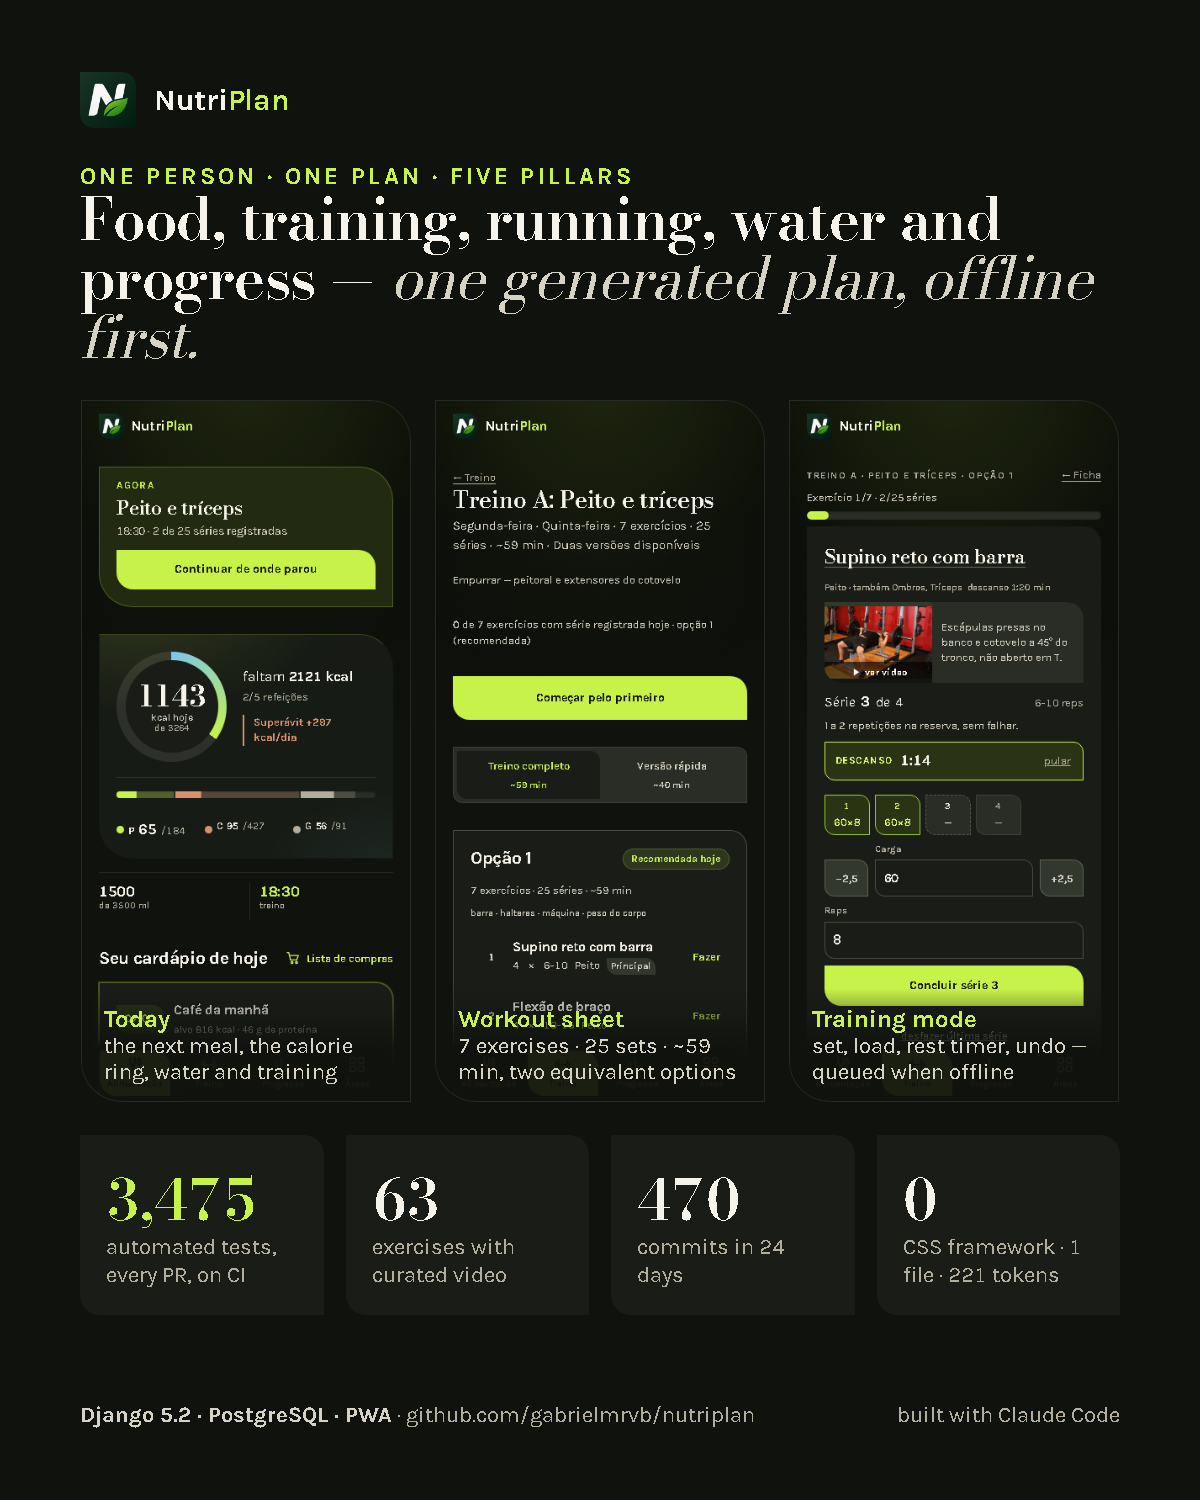
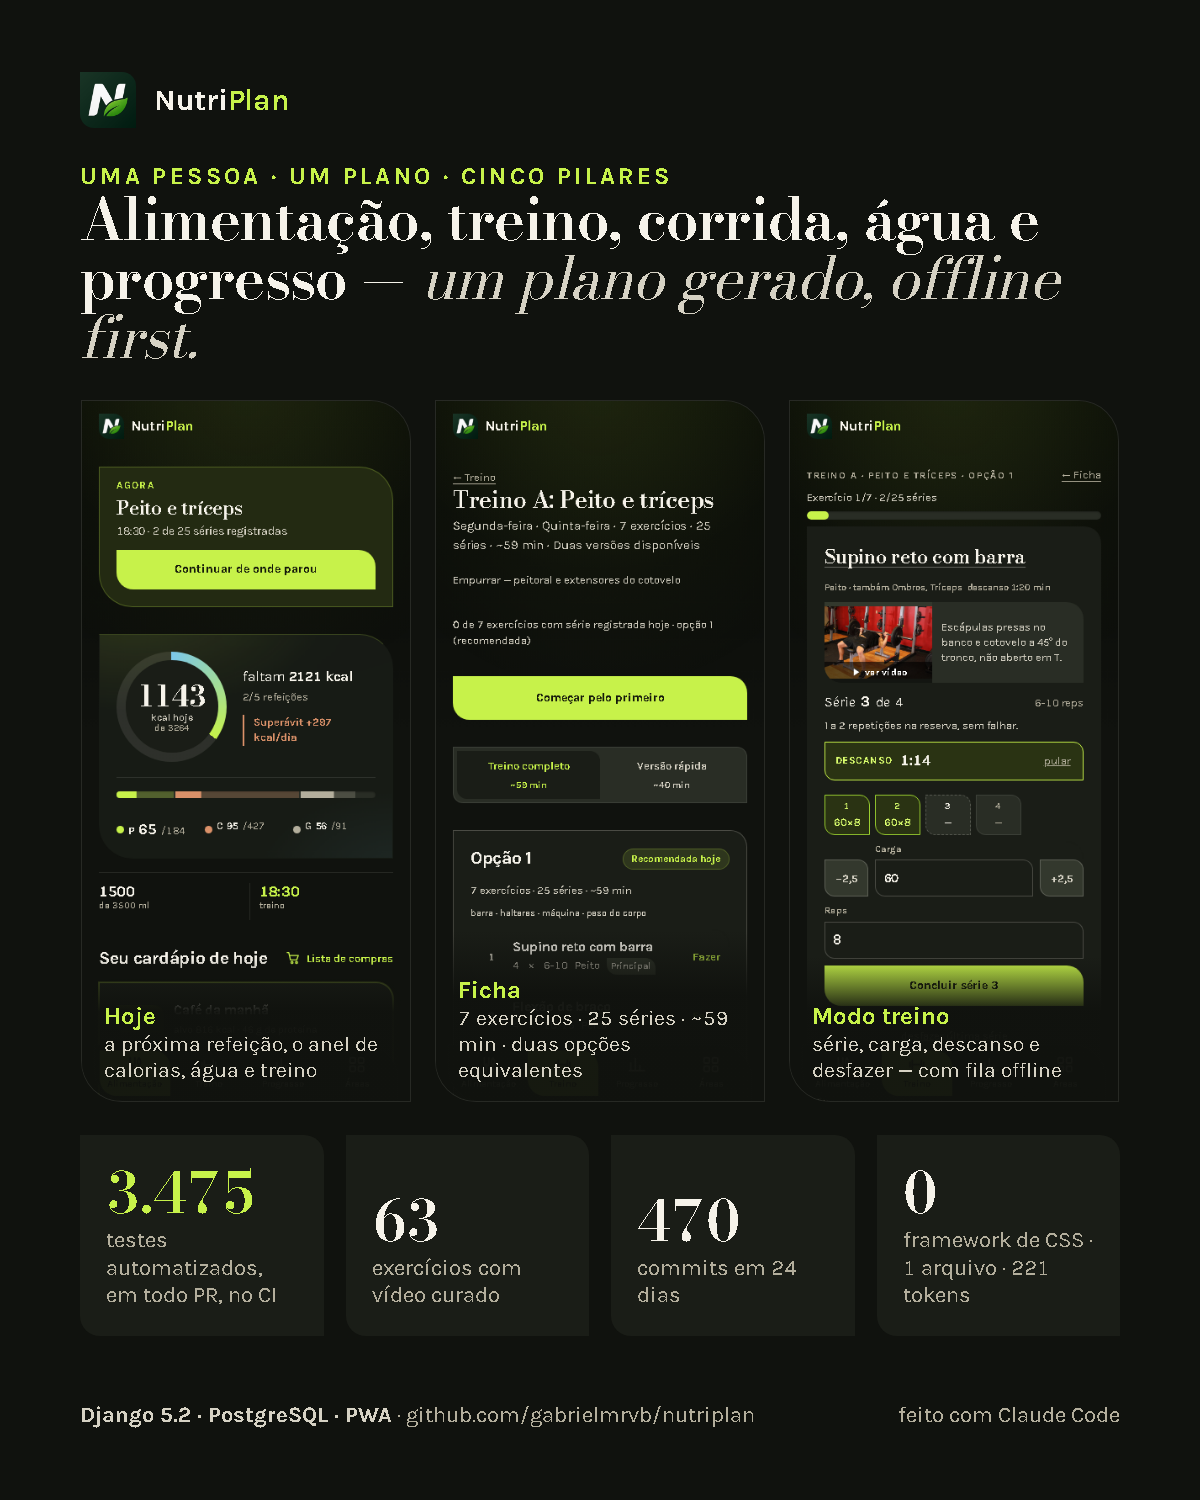
LinkedIn: os cinco posts e as cinco imagens em português (decisão do dono, 17/09)
A primeira versão era em inglês, como a headline e o Sobre do perfil; o
dono pediu português. As imagens de perfil (Projetos) continuam em inglês,
porque a seção do perfil é. Textos entre 1 186 e 1 289 caracteres; a
linha final que conecta a AI training / LLM evaluation ficou.

diff --git a/docs/linkedin/POSTS.md b/docs/linkedin/POSTS.md
@@ -1,13 +1,13 @@
 # LinkedIn — série de cinco posts sobre o NutriPlan
 
-Cinco posts em inglês, um por semana, sobre COMO o NutriPlan é construído com
+Cinco posts em português, um por semana, sobre COMO o NutriPlan é construído com
 agentes de IA — e não sobre "fiz um app". Cada um abre com um gancho, tem entre
 900 e 1.300 caracteres, leva uma imagem PNG gerada a partir do design system
 real (tokens do `app.css`, Bodoni Moda + Karla auto-hospedadas, capturas de
 tela do commit de produção) e fecha com uma linha que conecta ao trabalho de
 AI training / LLM evaluation sem pedir emprego.
 
-**Todo número foi medido em 17/09/2026** sobre `origin/main` = `56a43df`
+**Idioma: português** (decisão do dono em 17/09; a primeira versão era em inglês, e a linha final que conecta a AI training / LLM evaluation continua). **Todo número foi medido em 17/09/2026** sobre `origin/main` = `56a43df`
 (o commit que `/saude/` devolve em produção). A tabela de proveniência está
 no fim. Nenhuma métrica é estimada.
 
@@ -27,27 +27,27 @@ externo no texto; é a prática, não regra escrita.
 Hoje, ficha, execução — e quatro números).
 
 ```
-I built a full diet + training app in 24 days. Here it is in numbers.
+Construí um app completo de dieta e treino em 24 dias. Aqui está ele em números.
 
-NutriPlan generates a diet and a workout program from one profile — food, training, running, water and progress in one PWA, in Portuguese, offline-first. It is live, and the code is public (link in the first comment).
+O NutriPlan gera a dieta e o programa de treino a partir de um perfil só — alimentação, treino, corrida, hidratação e progresso num único PWA, offline-first. Está no ar, e o código é público (link no primeiro comentário).
 
-The numbers, all measured this morning, none estimated:
+Os números, todos medidos hoje de manhã, nenhum estimado:
 
-• 3,475 automated tests, run on every pull request — 22 to 29 minutes on CI
-• 64,575 lines of tests for 31,000 lines of application code
-• 63 exercises, each with a curated demonstration video
-• 470 commits · 15 PRs merged in the last 12 hours
-• 0 CSS frameworks: one stylesheet, 221 design tokens, contrast measured by tests
-• 100% free infrastructure: Render + Neon + GitHub Actions
+• 3.475 testes automatizados, em todo pull request — 22 a 29 minutos no CI
+• 64.575 linhas de teste para 31.000 linhas de código de aplicação
+• 63 exercícios, cada um com vídeo de demonstração curado
+• 470 commits · 15 PRs mergeados nas últimas 12 horas
+• 0 frameworks de CSS: um arquivo, 221 tokens de design, contraste medido por teste
+• infraestrutura 100% gratuita: Render + Neon + GitHub Actions
 
-Built with Claude Code — four sessions running in parallel by the end. The tool is not the story. The method is, and that is what the next four posts are about: how the agents coordinated on one branch, why "all tests passed" is not evidence, the day the workout sheet was half a real workout, and choosing a design system by score instead of taste.
+Feito com Claude Code — quatro sessões em paralelo no fim. A ferramenta não é a história. O método é, e é dele que os próximos quatro posts falam: como os agentes se coordenaram numa branch só, por que "todos os testes passaram" não é evidência, o dia em que a ficha de treino era metade de um treino de verdade, e a escolha de um design system por nota, não por gosto.
 
-If you evaluate LLM output for a living, this is what a rigorous agentic workflow looks like from the inside.
+Se você avalia saída de LLM profissionalmente, é assim que um fluxo agêntico rigoroso se parece por dentro.
 ```
 
 **Primeiro comentário:**
 ```
-Code: https://github.com/gabrielmrvb/nutriplan · Live: https://nutriplan-xxfn.onrender.com (there is a /demo/ with fictional data — no account needed)
+Código: https://github.com/gabrielmrvb/nutriplan · No ar: https://nutriplan-xxfn.onrender.com (tem um /demo/ com dados fictícios — não precisa de conta)
 ```
 
 ---
@@ -58,17 +58,17 @@ Code: https://github.com/gabrielmrvb/nutriplan · Live: https://nutriplan-xxfn.o
 PR + CI → fila → deploy; números do dia).
 
 ```
-Four AI agents pushed to the same repo for 14 hours. Zero direct pushes to main, zero broken merges. Here is the setup.
+Quatro agentes de IA empurraram código para o mesmo repositório por 14 horas. Zero push direto na main, zero merge quebrado. O arranjo foi este.
 
-1. A shared ledger. One plain-text file outside git, one line per notice: time · session · file · what I'm about to do. Read before editing, written before committing. 58 notices in 14 hours. Merge conflicts get resolved by whoever rebases — no negotiation.
+1. Um ledger compartilhado. Um arquivo de texto fora do git, uma linha por aviso: hora · sessão · arquivo · o que vou fazer. Lido antes de editar, escrito antes de commitar. 58 avisos em 14 horas. Conflito de merge é de quem faz o rebase — sem negociação.
 
-2. A gate that nobody can skip. Main is protected for everyone, admins included. Every PR runs the full suite — 3,475 tests on Postgres 16, 22–29 minutes. 20 PRs, 63 CI runs: 48 green, 7 red, 8 cancelled.
+2. Um gate que ninguém pula. A main é protegida para todo mundo, admin incluído. Todo PR roda a suíte inteira — 3.475 testes em Postgres 16, 22 a 29 minutos. 20 PRs, 63 rodadas de CI: 48 verdes, 7 vermelhas, 8 canceladas.
 
-3. A merge queue, one PR at a time. GitHub's queue is not available on personal accounts (the API answers 422), so a script takes its place: merge main in, push, wait for green, merge — next.
+3. Uma fila de merge, um PR por vez. A fila do GitHub não existe em conta pessoal (a API responde 422), então um script faz o papel: traz a main, empurra, espera o verde, mergeia — próximo.
 
-What actually broke was never the code. It was coordination: a PR went "behind" four times while others merged (the queue fixed that), and a red run at 03:00 UTC turned out to be fixtures crossing midnight.
+O que quebrou de verdade nunca foi o código. Foi coordenação: um PR ficou atrás da main quatro vezes enquanto os outros mergeavam (a fila resolveu), e uma rodada vermelha às 3h UTC eram fixtures cruzando a meia-noite.
 
-I keep coming back to this when I evaluate models: the interesting failures are rarely the answer itself. They are in what the system assumed about everyone else.
+É nisso que penso quando avalio modelos: as falhas interessantes raramente estão na resposta em si. Estão no que o sistema assumiu sobre todo o resto.
 ```
 
 ---
@@ -79,24 +79,24 @@ I keep coming back to this when I evaluate models: the interesting failures are 
 números da suíte e três formas reais de um teste verde mentir).
 
 ```
-I don't trust "all tests passed". Ten times in this codebase, a green test was lying.
+Eu não confio em "todos os testes passaram". Dez vezes neste código, um teste verde estava mentindo.
 
-So every guard that matters goes through the same loop:
+Por isso toda guarda que importa passa pelo mesmo laço:
 
-1. Red first — the test fails before any implementation exists.
-2. Green — the smallest change that makes it pass.
-3. Sabotage — break the guard on purpose. The test MUST go red. If it stays green, the test is wrong, not the code. The sabotage never enters the commit.
-4. Adversarial review — a second agent, one that did not write the code, hunts for weak assertions and passes-by-accident.
+1. Vermelho primeiro — o teste falha antes de existir implementação.
+2. Verde — a menor mudança que o faz passar.
+3. Sabotagem — quebrar a guarda de propósito. O teste TEM de ficar vermelho. Se continua verde, o teste está errado, não o código. A sabotagem nunca entra no commit.
+4. Revisão adversarial — um segundo agente, que não escreveu o código, caça asserção fraca e teste que passa por acidente.
 
-Three ways a green test lied to me, all real:
+Três jeitos reais de um teste verde ter mentido para mim:
 
-• assertNotIn("data-x", html) passed because the marker also lives inside the <script> tag. Anchor on the visible text, never the selector.
-• client.post(url, {...}) proves the view, not the screen. Rename a field in the template and it stays green. Submit the rendered form instead.
-• Eight threads with no Barrier never actually race. The retry test passed with the retry deleted — 5 of 8 writes were being lost and nothing was red.
+• assertNotIn("data-x", html) passava porque o marcador também mora dentro do <script>. Ancore no texto visível, nunca no seletor.
+• client.post(url, {...}) prova a view, não a tela. Renomeie um campo no template e continua verde. Envie o formulário renderizado.
+• Oito threads sem Barrier nunca disputam de verdade. O teste do retry passou com o retry apagado — 5 de 8 gravações se perdiam e nada ficava vermelho.
 
-Today: 64,575 lines of tests for 31,000 lines of app code, 3,475 tests, every PR.
+Hoje: 64.575 linhas de teste para 31.000 de aplicação, 3.475 testes, em todo PR.
 
-Evaluating an LLM's answer is the same discipline. The question is never "does it look right" — it is "what would have to be broken for this to still look right?"
+Avaliar a resposta de um LLM é a mesma disciplina. A pergunta nunca é "parece certo?" — é "o que precisaria estar quebrado para isto continuar parecendo certo?"
 ```
 
 ---
@@ -107,21 +107,21 @@ Evaluating an LLM's answer is the same discipline. The question is never "does i
 que consertou, o benchmark de mercado).
 
 ```
-On Sept 16 at 06:30 my app handed an intermediate lifter a chest day with 4 exercises and 13 sets. A coach would hand 7 exercises and 21 to 28 sets.
+Em 16 de setembro, às 6h30, meu app entregou a um intermediário um dia de peito com 4 exercícios e 13 séries. Um treinador entregaria 7 exercícios e 21 a 28 séries.
 
-Nobody reported it. An evaluation session found it: an agent playing a demanding new user, on a disposable account, in production, grading each area 0–10 with evidence. Training: 5.
+Ninguém reportou. Uma sessão de avaliação achou: um agente no papel de usuário novo e exigente, conta descartável, em produção, nota de 0 a 10 por área, com evidência. Treino: 5.
 
-Then it traced the cause instead of guessing: the catalog had 4 chest and 3 triceps exercises; two equivalent options per session needed 6 and 6; and a weekly volume cap kicked in before the clock did. No duration setting changed anything.
+Depois ela rastreou a causa em vez de chutar: o catálogo tinha 4 exercícios de peito e 3 de tríceps; duas opções equivalentes por sessão pediam 6 e 6; e um teto semanal de volume batia antes do relógio. Nenhum ajuste de duração mudava nada.
 
-The fix was not a tweak:
-• a written doctrine, TREINO.md — sets per exercise, per session, per week, by level and day type, papers cited (Schoenfeld, Helms, Israetel);
-• tests that read that document and fail the engine against it, plus a golden test that never loosens;
-• the catalog: 36 → 63 active exercises, each with a curated video;
-• a market benchmark of 8 apps — five patterns where 5+ converge became spec items; where one contradicted the doctrine, the doctrine won, in writing.
+O conserto não foi remendo:
+• uma doutrina escrita, o TREINO.md — séries por exercício, por sessão, por semana, por nível e tipo de dia, fontes citadas (Schoenfeld, Helms, Israetel);
+• testes que leem o documento e reprovam o motor contra ele, mais um teste dourado que nunca afrouxa;
+• o catálogo: de 36 para 63 exercícios ativos, cada um com vídeo curado;
+• um benchmark de 8 apps — cinco padrões em que 5+ convergem viraram itens de spec; onde um contradizia a doutrina, a doutrina venceu, por escrito.
 
-Measured in production the next day: 7 exercises, 25 sets, ~59 minutes.
+Medido em produção no dia seguinte: 7 exercícios, 25 séries, ~59 minutos.
 
-The score was not the point. The trace was. A grade is only useful when it comes with the reason — in fitness apps and in model evaluation alike.
+A nota não era o ponto. O rastro era. Nota só serve quando vem com a razão — em app de treino e em avaliação de modelo.
 ```
 
 ---
@@ -132,23 +132,23 @@ The score was not the point. The trace was. A grade is only useful when it comes
 a nota de cada uma, e os quatro números do sistema que entrou).
 
 ```
-Three design directions were generated for my app. I picked one with a scoresheet written before I saw any of them.
+Três direções de design foram geradas para o meu app. Escolhi uma com critérios escritos antes de ver qualquer uma delas.
 
-The brief went to Claude Design and came back as three complete directions — NERVURA, CORTE, VENAÇÃO — same seven screens, dark and light, each with its own type and palette.
+O brief foi para o Claude Design e voltou como três direções completas — NERVURA, CORTE, VENAÇÃO — as mesmas sete telas, escuro e claro, cada uma com tipografia e paleta próprias.
 
-Six criteria, 0 to 5 each, in a fixed order: identity in one second (cover the name — is it still this app?), the number as hero at 390 px, the workout screen and its reward frame, dark-first with AA contrast, cost on top of the existing CSS, risk of ageing badly.
+Seis critérios, de 0 a 5, em ordem fixa: identidade em um segundo (tampe o nome — ainda é este app?), número como herói a 390 px, tela de treino e frame de recompensa, escuro como base com contraste AA, custo sobre o CSS que já existe, risco de envelhecer mal.
 
-Scores: 23 · 25 · 17. CORTE won on the two criteria that are structure — identity and cost — not on the ones that are taste. It lost "number as hero", and that is written down too.
+Notas: 23 · 25 · 17. CORTE venceu nos dois critérios que são estrutura — identidade e custo — não nos que são gosto. Perdeu em "número como herói", e isso também está escrito.
 
-Then it became a contract, not a mockup:
-• tokens written once — dark is the base, light is derived
-• two self-hosted fonts, Bodoni Moda + Karla, 70,580 bytes of a 260 KB budget
-• 274 contrast pairs measured in the real CSS, 0 failing
-• the leaf-shaped cut on every button, field, chip and card — with a test listing what may not be a pill
+Depois virou contrato:
+• tokens escritos uma vez — o escuro é a base, o claro é derivado
+• duas fontes auto-hospedadas, Bodoni Moda + Karla, 70.580 bytes num orçamento de 260 KB
+• 274 pares de contraste medidos no CSS real, 0 reprovados
+• o recorte em folha em todo botão, campo, chip e cartão — e um teste diz o que não pode ser pílula
 
-Each one is enforced by a test, so the spec cannot drift quietly.
+Cada item é cobrado por teste: a spec não deriva em silêncio.
 
-Choosing between generated options is rubric work. Writing the rubric before seeing the options is what makes the choice defensible — and reversible.
+Escolher entre opções geradas é trabalho de rubrica. Escrever a rubrica antes de ver as opções é o que torna a escolha defensável — e reversível.
 ```
 
 ---
